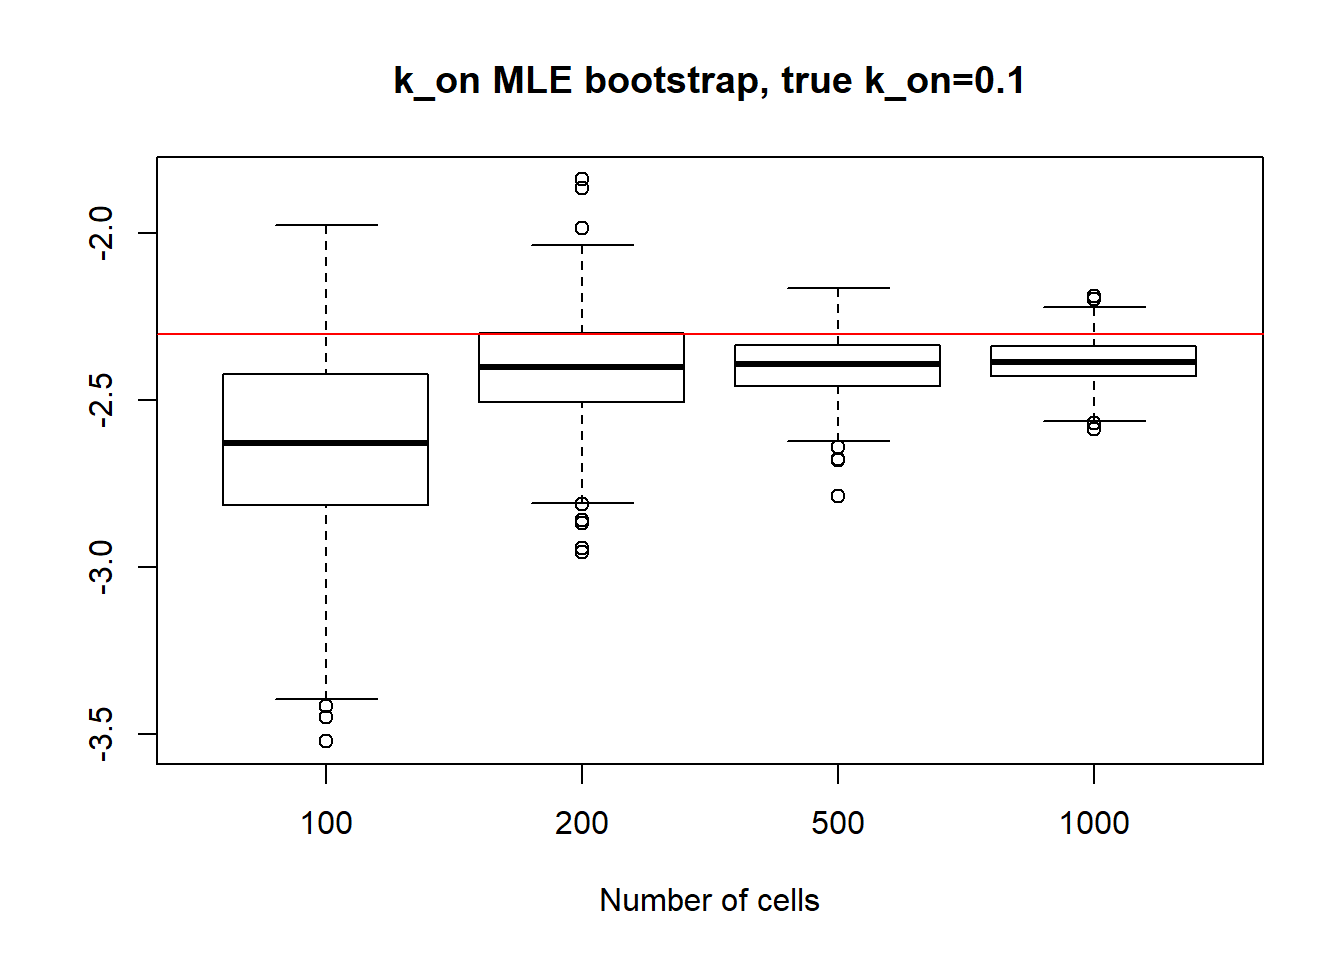
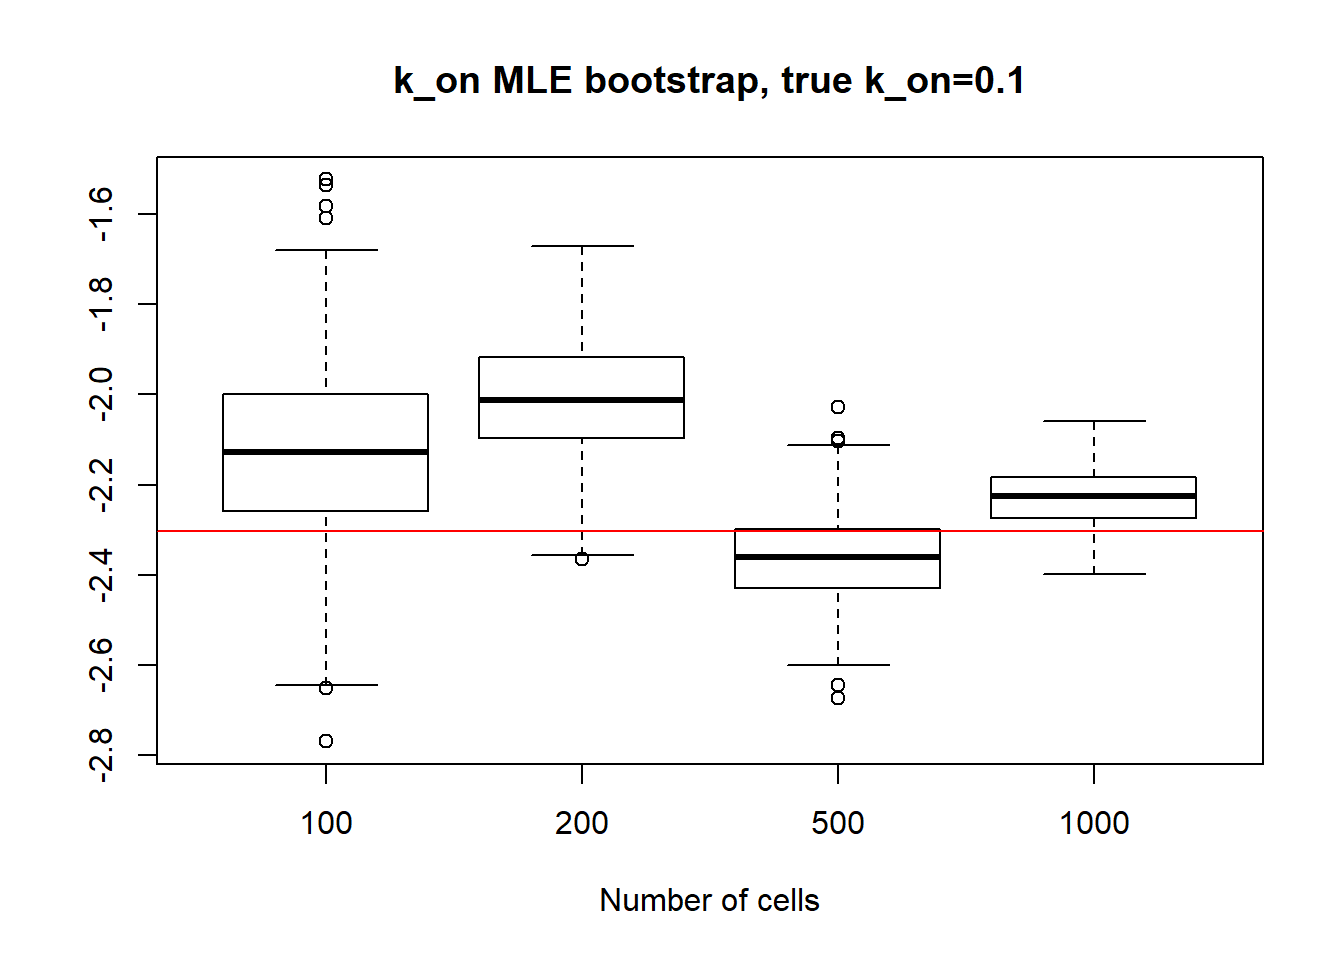
Build site.

diff --git a/docs/MLE_bootstrap_variability_by_sample_size.html b/docs/MLE_bootstrap_variability_by_sample_size.html
@@ -344,7 +344,7 @@ div.section {
 <div class="tab-content">
 <div id="summary" class="tab-pane fade in active">
 <p>
-<strong>Last updated:</strong> 2020-01-11
+<strong>Last updated:</strong> 2020-01-14
 </p>
 <p>
 <strong>Checks:</strong> <span class="glyphicon glyphicon-ok text-success" aria-hidden="true"></span> 6 <span class="glyphicon glyphicon-exclamation-sign text-danger" aria-hidden="true"></span> 1
@@ -359,7 +359,7 @@ This reproducible <a href="http://rmarkdown.rstudio.com">R Markdown</a> analysis
 <hr>
 </div>
 <div id="checks" class="tab-pane fade">
-<div id="workflowr-checks" class="panel-group">
+<div class="panel-group" id="workflowr-checks">
 <div class="panel panel-default">
 <div class="panel-heading">
 <p class="panel-title">
@@ -459,10 +459,10 @@ analysis/MLE.py
 <div class="panel panel-default">
 <div class="panel-heading">
 <p class="panel-title">
-<a data-toggle="collapse" data-parent="#workflowr-checks" href="#strongRepositoryversionstrongahrefhttpsgithubcomMargareth2407ThesissingleRNAtreee6c5c3ca8a63a74f6655ee2656ab9ee9882699a0targetblanke6c5c3ca"> <span class="glyphicon glyphicon-ok text-success" aria-hidden="true"></span> <strong>Repository version:</strong> <a href="https://github.com/Margareth2407/Thesis_single_RNA/tree/e6c5c3ca8a63a74f6655ee2656ab9ee9882699a0" target="_blank">e6c5c3c</a> </a>
+<a data-toggle="collapse" data-parent="#workflowr-checks" href="#strongRepositoryversionstrongahrefhttpsgithubcomMargareth2407ThesissingleRNAtreedde5c3534d7ba46aeb9916f9c54459ca46b8c306targetblankdde5c35a"> <span class="glyphicon glyphicon-ok text-success" aria-hidden="true"></span> <strong>Repository version:</strong> <a href="https://github.com/Margareth2407/Thesis_single_RNA/tree/dde5c3534d7ba46aeb9916f9c54459ca46b8c306" target="_blank">dde5c35</a> </a>
 </p>
 </div>
[2 lines of base64/hex data omitted]
 <div class="panel-body">
 <p>
 Great! You are using Git for version control. Tracking code development and connecting the code version to the results is critical for reproducibility. The version displayed above was the version of the Git repository at the time these results were generated. <br><br> Note that you need to be careful to ensure that all relevant files for the analysis have been committed to Git prior to generating the results (you can use <code>wflow_publish</code> or <code>wflow_git_commit</code>). workflowr only checks the R Markdown file, but you know if there are other scripts or data files that it depends on. Below is the status of the Git repository when the results were generated:
@@ -473,10 +473,10 @@ Ignored files:
     Ignored:    .Rhistory
     Ignored:    analysis/.RData
     Ignored:    analysis/.Rhistory
-    Ignored:    analysis/figure/
 
 Unstaged changes:
     Modified:   Data_sim.Rmd
+    Modified:   analysis/Data_simulation.Rmd
     Deleted:    analysis/MLE_bootstrap_N_variability.Rmd
 
 </code></pre>
@@ -511,6 +511,8 @@ Attaching package: &#39;zoo&#39;</code></pre>
 
     as.Date, as.Date.numeric</code></pre>
 <p>This section is the continuation of bootstrap MLE estimates variability exploration. This time we would want to know the MLE bootstrap variability as function of sample size.</p>
+<p>For each of the <span class="math inline">\(k_on\)</span>, <span class="math inline">\(k_off\)</span>, <span class="math inline">\(k_r\)</span> case we generate a dataset of 100,200,500 and 1000 cells and bootstrap the data 500 times to estimate parameters with MLE. Then we take a look at boxplot of MLE estimates and the standart deviation by sample size.<br />
+All plot below are in log scale.</p>
 <pre class="r"><code>bootstrap&lt;-function(boot_number,k_on,k_off,kr,n_cells){
   #The function takes k_on,k_off,kr parameters as well as n_cells (number of cells) as input to generate once and then bootstrap it boot_number times. During each iteration of bootstrapping,  calculate MLE estimation for k_on,k_off,kr and store it in i&#39;th row of est matrix
   est=matrix(, nrow = boot_number, ncol = 3)
@@ -529,6 +531,7 @@ MLE_func&lt;-function(boot_number,k_on,k_off,kr,n_cells){
   return(MLE)}</code></pre>
 <div id="i-small-k_on-and-k_off-case" class="section level2">
 <h2>I) Small <span class="math inline">\(k_{on}\)</span> and <span class="math inline">\(k_{off}\)</span> case:</h2>
+<p>In the case of small <span class="math inline">\(k_{on}\)</span> and <span class="math inline">\(k_{off}\)</span>, as we saw before, parameters are identifiable so the standart deviation is quite small even for small 100 cell dataset and diminish with the increase of sample size. It is true for <span class="math inline">\(k_{on}\)</span>,<span class="math inline">\(k_{off}\)</span> and <span class="math inline">\(k_{r}\)</span> as well.</p>
 <pre class="r"><code>#True k_on=k_off=0.1
 boot_number=500
 k_on=as.numeric(0.1)
@@ -544,164 +547,47 @@ boxplot(log(x1[,1]),log(x2[,1]),log(x3[,1]),log(x4[,1]),xlab=&quot;Number of cel
 abline(h = log(0.1),col=&quot;red&quot;)</code></pre>
 <p><img src="figure/MLE_bootstrap_variability_by_sample_size.Rmd/unnamed-chunk-3-1.png" width="672" style="display: block; margin: auto;" /></p>
 <pre class="r"><code>paste(&quot;K_on standart deviations:&quot;,&quot;n=100:&quot;,round(sqrt(var(x1[,1],na.rm=TRUE)),3), &quot;; n=200:&quot;,round(sqrt(var(x2[,1],na.rm=TRUE)),3), &quot;; n=500:&quot;, round(sqrt(var(x3[,1],na.rm=TRUE)),3), &quot;; n=1000:&quot;,round(sqrt(var(x4[,1],na.rm=TRUE)),3))</code></pre>
-<pre><code>[1] &quot;K_on standart deviations: n=100: 0.02 ; n=200: 0.015 ; n=500: 0.009 ; n=1000: 0.006&quot;</code></pre>
+<pre><code>[1] &quot;K_on standart deviations: n=100: 0.024 ; n=200: 0.018 ; n=500: 0.01 ; n=1000: 0.007&quot;</code></pre>
 <pre class="r"><code>boxplot(log(x1[,2]),log(x2[,2]),log(x3[,2]),log(x4[,2]),xlab=&quot;Number of cells&quot;,names=c(&quot;100&quot;, &quot;200&quot;,&quot;500&quot;, &quot;1000&quot;),main=&quot;k_off MLE bootstrap, true k_off=0.1&quot;)
 abline(h = log(0.1),col=&quot;red&quot;)</code></pre>
 <p><img src="figure/MLE_bootstrap_variability_by_sample_size.Rmd/unnamed-chunk-3-2.png" width="672" style="display: block; margin: auto;" /></p>
 <pre class="r"><code>paste(&quot;k_off standart deviations:&quot;, &quot;n=100:&quot;, round(sqrt(var(x1[,2],na.rm=TRUE)),3), &quot;; n=200:&quot;,round(sqrt(var(x2[,2],na.rm=TRUE)),3), &quot;; n=500:&quot;, round(sqrt(var(x3[,2],na.rm=TRUE)),3), &quot;; n=1000: &quot;, round(sqrt(var(x4[,2],na.rm=TRUE)),3))</code></pre>
-<pre><code>[1] &quot;k_off standart deviations: n=100: 0.02 ; n=200: 0.016 ; n=500: 0.01 ; n=1000:  0.007&quot;</code></pre>
+<pre><code>[1] &quot;k_off standart deviations: n=100: 0.035 ; n=200: 0.019 ; n=500: 0.011 ; n=1000:  0.009&quot;</code></pre>
 <pre class="r"><code>boxplot(log(x1[,3]),log(x2[,3]),log(x3[,3]),log(x4[,3]),xlab=&quot;Number of cells&quot;,names=c(&quot;100&quot;, &quot;200&quot;,&quot;500&quot;, &quot;1000&quot;),main=&quot;k_r MLE bootstrap, true k_r=100&quot;)
 abline(h = log(100),col=&quot;red&quot;)</code></pre>
 <p><img src="figure/MLE_bootstrap_variability_by_sample_size.Rmd/unnamed-chunk-3-3.png" width="672" style="display: block; margin: auto;" /></p>
 <pre class="r"><code>paste(&quot;k_r standart deviations:&quot;, &quot;n=100:&quot;, round(sqrt(var(x1[,3],na.rm=TRUE)),3), &quot;; n=200:&quot;,round(sqrt(var(x2[,3],na.rm=TRUE)),3), &quot;; n=500:&quot;, round(sqrt(var(x3[,3],na.rm=TRUE)),3), &quot;n=1000:&quot;, round(sqrt(var(x4[,3],na.rm=TRUE)),3))</code></pre>
-<pre><code>[1] &quot;k_r standart deviations: n=100: 1.808 ; n=200: 1.496 ; n=500: 0.918 n=1000: 0.587&quot;</code></pre>
-<pre class="r"><code>par(mfrow=c(2,2))
-hist(log(x1[,1]), xlab=&quot; &quot;, main=&quot;k_on estimate distribution, n=100&quot;)
-abline(v = log(0.1),col=&quot;red&quot;)
-hist(log(x2[,1]), xlab=&quot; &quot;, main =&quot;k_on estimate distribution, n=200&quot;)
-abline(v = log(0.1),col=&quot;red&quot;)
-hist(log(x3[,1]), xlab=&quot; &quot;, main =&quot;k_on estimate distribution, n=500&quot;)
-abline(v = log(0.1),col=&quot;red&quot;)
-hist(log(x4[,1]), xlab=&quot; &quot;, main =&quot;k_on estimate distribution, n=1000&quot;)
-abline(v = log(0.1),col=&quot;red&quot;)</code></pre>
-<p><img src="figure/MLE_bootstrap_variability_by_sample_size.Rmd/unnamed-chunk-4-1.png" width="672" style="display: block; margin: auto;" /></p>
-<pre class="r"><code>par(mfrow=c(2,2))
-hist(log(x1[,2]), xlab=&quot; &quot;, main=&quot;k_off estimate distribution, n=100&quot;)
-abline(v = log(0.1),col=&quot;red&quot;)
-hist(log(x2[,2]), xlab=&quot; &quot;, main =&quot;k_off estimate distribution, n=200&quot;)
-abline(v = log(0.1),col=&quot;red&quot;)
-hist(log(x3[,2]), xlab=&quot; &quot;, main =&quot;k_off estimate distribution, n=500&quot;)
-abline(v = log(0.1),col=&quot;red&quot;)
-hist(log(x4[,2]), xlab=&quot; &quot;, main =&quot;k_off estimate distribution, n=1000&quot;)
-abline(v = log(0.1),col=&quot;red&quot;)</code></pre>
-<p><img src="figure/MLE_bootstrap_variability_by_sample_size.Rmd/unnamed-chunk-4-2.png" width="672" style="display: block; margin: auto;" /></p>
-<pre class="r"><code>par(mfrow=c(2,2))
-hist(log(x1[,3]), xlab=&quot; &quot;, main=&quot;k_r estimate distribution, n=100&quot;)
-abline(v = log(100),col=&quot;red&quot;)
-hist(log(x2[,3]), xlab=&quot; &quot;, main =&quot;k_r estimate distribution, n=200&quot;)
-abline(v = log(100),col=&quot;red&quot;)
-hist(log(x3[,3]), xlab=&quot; &quot;, main =&quot;k_r estimate distribution, n=500&quot;)
-abline(v = log(100),col=&quot;red&quot;)
-hist(log(x4[,3]), xlab=&quot; &quot;, main =&quot;k_r estimate distribution, n=1000&quot;)
-abline(v = log(100),col=&quot;red&quot;)</code></pre>
-<p><img src="figure/MLE_bootstrap_variability_by_sample_size.Rmd/unnamed-chunk-4-3.png" width="672" style="display: block; margin: auto;" /></p>
+<pre><code>[1] &quot;k_r standart deviations: n=100: 2.149 ; n=200: 1.15 ; n=500: 0.851 n=1000: 0.614&quot;</code></pre>
 </div>
 <div id="ii-large-k_on-and-k_off-case" class="section level2">
 <h2>II) Large <span class="math inline">\(k_{on}\)</span> and <span class="math inline">\(k_{off}\)</span> case:</h2>
+<p>For large <span class="math inline">\(k_{on}\)</span> and <span class="math inline">\(k_{off}\)</span> case, we see decrease in standart deviation, but the magnitude is quite high.</p>
+<p><img src="figure/MLE_bootstrap_variability_by_sample_size.Rmd/unnamed-chunk-4-1.png" width="672" style="display: block; margin: auto;" /></p>
+<pre><code>[1] &quot;K_on standart deviations: n=100: 5.176 ; n=200: 4.018 ; n=500: 1.325 ; n=1000: 3.179&quot;</code></pre>
+<p><img src="figure/MLE_bootstrap_variability_by_sample_size.Rmd/unnamed-chunk-4-2.png" width="672" style="display: block; margin: auto;" /></p>
+<pre><code>[1] &quot;k_off standart deviations: n=100: 171.074 ; n=200: 26.713 ; n=500: 2.126 ; n=1000:  104.445&quot;</code></pre>
+<p><img src="figure/MLE_bootstrap_variability_by_sample_size.Rmd/unnamed-chunk-4-3.png" width="672" style="display: block; margin: auto;" /></p>
+<pre><code>[1] &quot;k_r standart deviations: n=100: 422.566 ; n=200: 56.45 ; n=500: 8.047 n=1000: 503.54&quot;</code></pre>
+</div>
+<div id="iii-large-value-of-k_off-and-small-k_on-case" class="section level2">
+<h2>III) Large value of <span class="math inline">\(k_{off}\)</span> and small <span class="math inline">\(k_{on}\)</span> case:</h2>
+<p>For small <span class="math inline">\(k_{on}\)</span> large <span class="math inline">\(k_{off}\)</span> we observe that as <span class="math inline">\(k_{on}\)</span> has small deviation and as we might remember from previous vignette, this is the only identifiable parameter in this scenario. Both <span class="math inline">\(k_{off}\)</span> and <span class="math inline">\(k_{r}\)</span> were unidentifiable, so we see high standart deviation even with big data size. We also experience some instability in standart deviation - sample size dependance as we sometimes see increase in standart deviation despite the sample size growth.</p>
 <p><img src="figure/MLE_bootstrap_variability_by_sample_size.Rmd/unnamed-chunk-5-1.png" width="672" style="display: block; margin: auto;" /></p>
-<pre><code>[1] &quot;K_on standart deviations: n=100: 4.471 ; n=200: 5.731 ; n=500: 2.824 ; n=1000: 1.388&quot;</code></pre>
+<pre><code>[1] &quot;K_on standart deviations: n=100: 0.219 ; n=200: 0.108 ; n=500: 0.088 ; n=1000: 0.062&quot;</code></pre>
 <p><img src="figure/MLE_bootstrap_variability_by_sample_size.Rmd/unnamed-chunk-5-2.png" width="672" style="display: block; margin: auto;" /></p>
-<pre><code>[1] &quot;k_off standart deviations: n=100: 258.397 ; n=200: 137 ; n=500: 40.657 ; n=1000:  3.63&quot;</code></pre>
+<pre><code>[1] &quot;k_off standart deviations: n=100: 147.481 ; n=200: 1.981 ; n=500: 6.687 ; n=1000:  1.416&quot;</code></pre>
 <p><img src="figure/MLE_bootstrap_variability_by_sample_size.Rmd/unnamed-chunk-5-3.png" width="672" style="display: block; margin: auto;" /></p>
-<pre><code>[1] &quot;k_r standart deviations: n=100: 1046.286 ; n=200: 515.671 ; n=500: 88.526 n=1000: 11.262&quot;</code></pre>
-<pre class="r"><code>par(mfrow=c(2,2))
-hist(log(x1[,1]), xlab=&quot; &quot;, main=&quot;k_on estimate distribution, n=100&quot;)
-abline(v = log(10),col=&quot;red&quot;)
-hist(log(x2[,1]), xlab=&quot; &quot;, main =&quot;k_on estimate distribution, n=200&quot;)
-abline(v = log(10),col=&quot;red&quot;)
-hist(log(x3[,1]), xlab=&quot; &quot;, main =&quot;k_on estimate distribution, n=500&quot;)
-abline(v = log(10),col=&quot;red&quot;)
-hist(log(x4[,1]), xlab=&quot; &quot;, main =&quot;k_on estimate distribution, n=1000&quot;)
-abline(v = log(10),col=&quot;red&quot;)</code></pre>
+<pre><code>[1] &quot;k_r standart deviations: n=100: 1000.357 ; n=200: 14.821 ; n=500: 52 n=1000: 10.387&quot;</code></pre>
+</div>
+<div id="iv-small-value-of-k_off-and-big-k_on" class="section level2">
+<h2>IV) Small value of <span class="math inline">\(k_{off}\)</span> and big <span class="math inline">\(k_{on}\)</span></h2>
+<p>Small value if <span class="math inline">\(k_{off}\)</span> and big <span class="math inline">\(k_{on}\)</span> scenario has identifiable parameters, so alike with small value <span class="math inline">\(k_{on}\)</span>, <span class="math inline">\(k_{on}\)</span> case we observe reasonable standart deviation values, especially for bigger dataset as well as decrease in standart deviation size.</p>
 <p><img src="figure/MLE_bootstrap_variability_by_sample_size.Rmd/unnamed-chunk-6-1.png" width="672" style="display: block; margin: auto;" /></p>
-<pre class="r"><code>par(mfrow=c(2,2))
-hist(log(x1[,2]), xlab=&quot; &quot;, main=&quot;k_off estimate distribution, n=100&quot;)
-abline(v = log(10),col=&quot;red&quot;)
-hist(log(x2[,2]), xlab=&quot; &quot;, main =&quot;k_off estimate distribution, n=200&quot;)
-abline(v = log(10),col=&quot;red&quot;)
-hist(log(x3[,2]), xlab=&quot; &quot;, main =&quot;k_off estimate distribution, n=500&quot;)
-abline(v = log(10),col=&quot;red&quot;)
-hist(log(x4[,2]), xlab=&quot; &quot;, main =&quot;k_off estimate distribution, n=1000&quot;)
-abline(v = log(10),col=&quot;red&quot;)</code></pre>
+<pre><code>[1] &quot;K_on standart deviations: n=100: 18.296 ; n=200: 12.624 ; n=500: 12.3 ; n=1000: 1.138&quot;</code></pre>
 <p><img src="figure/MLE_bootstrap_variability_by_sample_size.Rmd/unnamed-chunk-6-2.png" width="672" style="display: block; margin: auto;" /></p>
-<pre class="r"><code>par(mfrow=c(2,2))
-hist(log(x1[,3]), xlab=&quot; &quot;, main=&quot;k_r estimate distribution, n=100&quot;)
-abline(v = log(100),col=&quot;red&quot;)
-hist(log(x2[,3]), xlab=&quot; &quot;, main =&quot;k_r estimate distribution, n=200&quot;)
-abline(v = log(100),col=&quot;red&quot;)
-hist(log(x3[,3]), xlab=&quot; &quot;, main =&quot;k_r estimate distribution, n=500&quot;)
-abline(v = log(100),col=&quot;red&quot;)
-hist(log(x4[,3]), xlab=&quot; &quot;, main =&quot;k_r estimate distribution, n=1000&quot;)
-abline(v = log(100),col=&quot;red&quot;)</code></pre>
+<pre><code>[1] &quot;k_off standart deviations: n=100: 19.307 ; n=200: 29.104 ; n=500: 30.154 ; n=1000:  0.168&quot;</code></pre>
 <p><img src="figure/MLE_bootstrap_variability_by_sample_size.Rmd/unnamed-chunk-6-3.png" width="672" style="display: block; margin: auto;" /></p>
-</div>
-<div id="iii-large-value-if-k_off-and-small-k_on-case" class="section level2">
-<h2>III) Large value if <span class="math inline">\(k_{off}\)</span> and small <span class="math inline">\(k_{on}\)</span> case:</h2>
-<p><img src="figure/MLE_bootstrap_variability_by_sample_size.Rmd/unnamed-chunk-7-1.png" width="672" style="display: block; margin: auto;" /></p>
-<pre><code>[1] &quot;K_on standart deviations: n=100: 0.167 ; n=200: 0.139 ; n=500: 0.091 ; n=1000: 0.077&quot;</code></pre>
-<p><img src="figure/MLE_bootstrap_variability_by_sample_size.Rmd/unnamed-chunk-7-2.png" width="672" style="display: block; margin: auto;" /></p>
-<pre><code>[1] &quot;k_off standart deviations: n=100: 96.165 ; n=200: 145.061 ; n=500: 156.922 ; n=1000:  59.772&quot;</code></pre>
-<p><img src="figure/MLE_bootstrap_variability_by_sample_size.Rmd/unnamed-chunk-7-3.png" width="672" style="display: block; margin: auto;" /></p>
-<pre><code>[1] &quot;k_r standart deviations: n=100: 794.153 ; n=200: 1122.787 ; n=500: 1408.998 n=1000: 536.152&quot;</code></pre>
-<pre class="r"><code>par(mfrow=c(2,2))
-hist(log(x1[,1]), xlab=&quot; &quot;, main=&quot;k_on estimate distribution, n=100&quot;)
-abline(v = log(1),col=&quot;red&quot;)
-hist(log(x2[,1]), xlab=&quot; &quot;, main =&quot;k_on estimate distribution, n=200&quot;)
-abline(v = log(1),col=&quot;red&quot;)
-hist(log(x3[,1]), xlab=&quot; &quot;, main =&quot;k_on estimate distribution, n=500&quot;)
-abline(v = log(1),col=&quot;red&quot;)
-hist(log(x4[,1]), xlab=&quot; &quot;, main =&quot;k_on estimate distribution, n=1000&quot;)
-abline(v = log(1),col=&quot;red&quot;)</code></pre>
-<p><img src="figure/MLE_bootstrap_variability_by_sample_size.Rmd/unnamed-chunk-8-1.png" width="672" style="display: block; margin: auto;" /></p>
-<pre class="r"><code>par(mfrow=c(2,2))
-hist(log(x1[,2]), xlab=&quot; &quot;, main=&quot;k_off estimate distribution, n=100&quot;)
-abline(v = log(10),col=&quot;red&quot;)
-hist(log(x2[,2]), xlab=&quot; &quot;, main =&quot;k_off estimate distribution, n=200&quot;)
-abline(v = log(10),col=&quot;red&quot;)
-hist(log(x3[,2]), xlab=&quot; &quot;, main =&quot;k_off estimate distribution, n=500&quot;)
-abline(v = log(10),col=&quot;red&quot;)
-hist(log(x4[,2]), xlab=&quot; &quot;, main =&quot;k_off estimate distribution, n=1000&quot;)
-abline(v = log(10),col=&quot;red&quot;)</code></pre>
-<p><img src="figure/MLE_bootstrap_variability_by_sample_size.Rmd/unnamed-chunk-8-2.png" width="672" style="display: block; margin: auto;" /></p>
-<pre class="r"><code>par(mfrow=c(2,2))
-hist(log(x1[,3]), xlab=&quot; &quot;, main=&quot;k_r estimate distribution, n=100&quot;)
-abline(v = log(100),col=&quot;red&quot;)
-hist(log(x2[,3]), xlab=&quot; &quot;, main =&quot;k_r estimate distribution, n=200&quot;)
-abline(v = log(100),col=&quot;red&quot;)
-hist(log(x3[,3]), xlab=&quot; &quot;, main =&quot;k_r estimate distribution, n=500&quot;)
-abline(v = log(100),col=&quot;red&quot;)
-hist(log(x4[,3]), xlab=&quot; &quot;, main =&quot;k_r estimate distribution, n=1000&quot;)
-abline(v = log(100),col=&quot;red&quot;)</code></pre>
-<p><img src="figure/MLE_bootstrap_variability_by_sample_size.Rmd/unnamed-chunk-8-3.png" width="672" style="display: block; margin: auto;" /></p>
-</div>
-<div id="iv-small-value-if-k_off-and-big-k_on" class="section level2">
-<h2>IV) Small value if <span class="math inline">\(k_{off}\)</span> and big <span class="math inline">\(k_{on}\)</span></h2>
-<p><img src="figure/MLE_bootstrap_variability_by_sample_size.Rmd/unnamed-chunk-9-1.png" width="672" style="display: block; margin: auto;" /></p>
-<pre><code>[1] &quot;K_on standart deviations: n=100: 14.925 ; n=200: 12.525 ; n=500: 4.259 ; n=1000: 1.862&quot;</code></pre>
-<p><img src="figure/MLE_bootstrap_variability_by_sample_size.Rmd/unnamed-chunk-9-2.png" width="672" style="display: block; margin: auto;" /></p>
-<pre><code>[1] &quot;k_off standart deviations: n=100: 31.94 ; n=200: 14.172 ; n=500: 1.13 ; n=1000:  0.346&quot;</code></pre>
-<p><img src="figure/MLE_bootstrap_variability_by_sample_size.Rmd/unnamed-chunk-9-3.png" width="672" style="display: block; margin: auto;" /></p>
-<pre><code>[1] &quot;k_r standart deviations: n=100: 41.582 ; n=200: 13.01 ; n=500: 2.861 n=1000: 1.769&quot;</code></pre>
-<pre class="r"><code>par(mfrow=c(2,2))
-hist(log(x1[,1]), xlab=&quot; &quot;, main=&quot;k_on estimate distribution, n=100&quot;)
-abline(v = log(10),col=&quot;red&quot;)
-hist(log(x2[,1]), xlab=&quot; &quot;, main =&quot;k_on estimate distribution, n=200&quot;)
-abline(v = log(10),col=&quot;red&quot;)
-hist(log(x3[,1]), xlab=&quot; &quot;, main =&quot;k_on estimate distribution, n=500&quot;)
-abline(v = log(10),col=&quot;red&quot;)
-hist(log(x4[,1]), xlab=&quot; &quot;, main =&quot;k_on estimate distribution, n=1000&quot;)
-abline(v = log(10),col=&quot;red&quot;)</code></pre>
-<p><img src="figure/MLE_bootstrap_variability_by_sample_size.Rmd/unnamed-chunk-10-1.png" width="672" style="display: block; margin: auto;" /></p>
-<pre class="r"><code>par(mfrow=c(2,2))
-hist(log(x1[,2]), xlab=&quot; &quot;, main=&quot;k_off estimate distribution, n=100&quot;)
-abline(v = log(1),col=&quot;red&quot;)
-hist(log(x2[,2]), xlab=&quot; &quot;, main =&quot;k_off estimate distribution, n=200&quot;)
-abline(v = log(1),col=&quot;red&quot;)
-hist(log(x3[,2]), xlab=&quot; &quot;, main =&quot;k_off estimate distribution, n=500&quot;)
-abline(v = log(1),col=&quot;red&quot;)
-hist(log(x4[,2]), xlab=&quot; &quot;, main =&quot;k_off estimate distribution, n=1000&quot;)
-abline(v = log(1),col=&quot;red&quot;)</code></pre>
-<p><img src="figure/MLE_bootstrap_variability_by_sample_size.Rmd/unnamed-chunk-10-2.png" width="672" style="display: block; margin: auto;" /></p>
-<pre class="r"><code>par(mfrow=c(2,2))
-hist(log(x1[,3]), xlab=&quot; &quot;, main=&quot;k_r estimate distribution, n=100&quot;)
-abline(v = log(100),col=&quot;red&quot;)
-hist(log(x2[,3]), xlab=&quot; &quot;, main =&quot;k_r estimate distribution, n=200&quot;)
-abline(v = log(100),col=&quot;red&quot;)
-hist(log(x3[,3]), xlab=&quot; &quot;, main =&quot;k_r estimate distribution, n=500&quot;)
-abline(v = log(100),col=&quot;red&quot;)
-hist(log(x4[,3]), xlab=&quot; &quot;, main =&quot;k_r estimate distribution, n=1000&quot;)
-abline(v = log(100),col=&quot;red&quot;)</code></pre>
-<p><img src="figure/MLE_bootstrap_variability_by_sample_size.Rmd/unnamed-chunk-10-3.png" width="672" style="display: block; margin: auto;" /></p>
+<pre><code>[1] &quot;k_r standart deviations: n=100: 24.156 ; n=200: 31.249 ; n=500: 27.157 n=1000: 1.173&quot;</code></pre>
 <br>
 <p>
 <button type="button" class="btn btn-default btn-workflowr btn-workflowr-sessioninfo" data-toggle="collapse" data-target="#workflowr-sessioninfo" style="display: block;">
